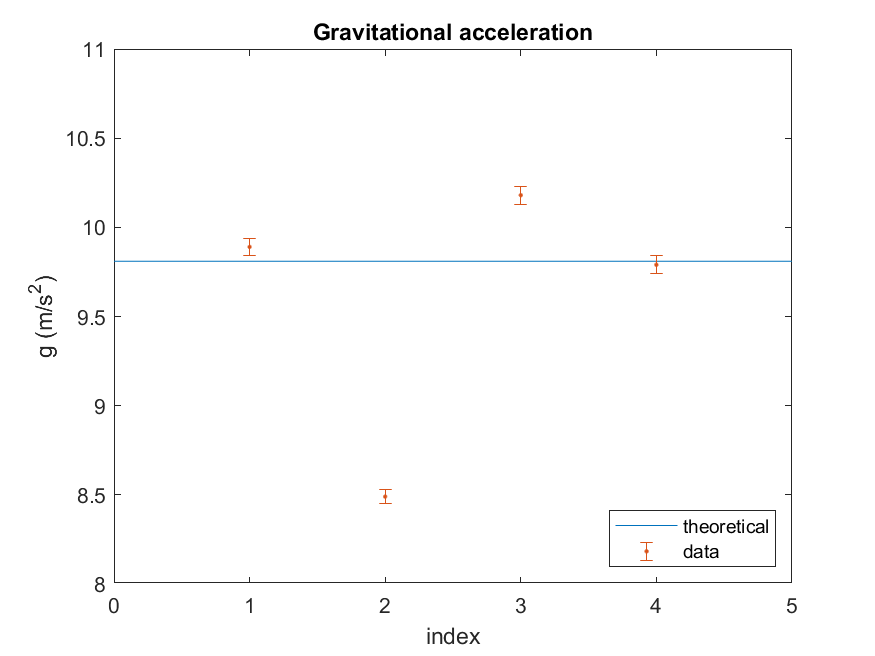
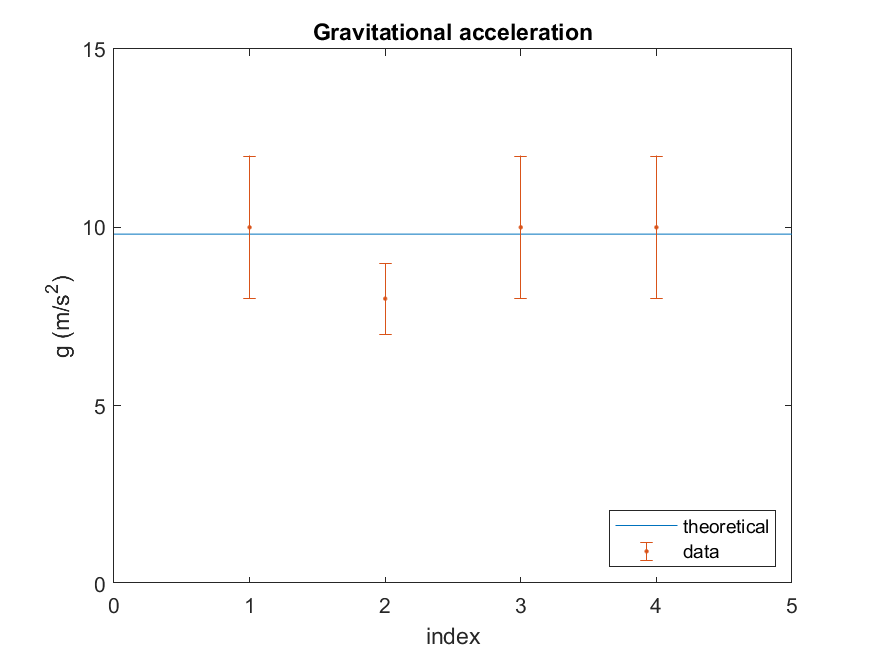
[exp-6] updated data and script

diff --git a/exp-6/script/script.m b/exp-6/script/script.m
@@ -1,10 +1,12 @@
 % importing data
 df1=readtable("../data/experimental-data-1.csv")
 df2=readtable("../data/experimental-data-2.csv")
+% df3=readtable("../data/experimental-data-3.csv")
 tools=readtable("../data/tools.csv")
 
 % defining values and converting to SI
-d=df1.value(1:4)/1000
+d=df1.value(2:5)/1000
+d(1)=df1.value(1)/1000
 r=d/2
 dd=df1.uncertainty(1)/1000
 F=table2array(df1(df1.dimension=="F","value"))/1000
@@ -12,9 +14,9 @@ c=table2array(df1(df1.dimension=="c","value"))/1000
 mh=unique(df2.mass)
 
 T1=table2array(df2(df2.mass=="m1","t5"))/5;
-T2=table2array(df2(df2.mass=="m2","t5"))/5;
-T3=table2array(df2(df2.mass=="m3","t5"))/5;
-T4=table2array(df2(df2.mass=="m4","t5"))/5;
+T2=table2array(df2(df2.mass=="m3","t5"))/5;
+T3=table2array(df2(df2.mass=="m4","t5"))/5;
+T4=table2array(df2(df2.mass=="m5","t5"))/5;
 
 dF=table2array(df1(df1.dimension=="F","uncertainty"))/1000
 dc=table2array(df1(df1.dimension=="c","uncertainty"))/1000
@@ -39,7 +41,7 @@ for i=1:length(T)
     g(i)= ((28*pi^2)*(R-r(i)))/(5*T(i)^2);
 
     % propagation of error
-    dg(i)=((28.*pi.^2)./(5.*T(i).^2)).*(2.*c.*dc)./(8.*F) + abs(1./2 - (c.^2)./(8.*F.^2)).*dF + 28.*pi.^2.*dr./(5*T(i)^2) + (R-r(i))*(2*T(i)*dT)/(5*T(i)^4);
+    dg(i)=((28.*pi.^2)./(5.*T(i).^2)).*((2.*c.*dc)./(8.*F) + abs(1./2 - (c.^2)./(8.*F.^2)).*dF) + 28.*pi.^2.*dr./(5*T(i)^2) + 28.*pi^2.*(R-r(i))*(2*T(i)*dT)/(5*T(i)^4);
 
     % uom
     uom(i)="MSK";
@@ -58,7 +60,7 @@ plot([0;1;2;3;4;5],[9.81;9.81;9.81;9.81;9.81;9.81])
 hold on
 errorbar([1;2;3;4],g,dg,dg,'.')
 xlim([0,5])
-ylim([8,11])
+ylim([0,15])
 hold off
 legend('theoretical','data','Location','southeast')
 title('Gravitational acceleration')
